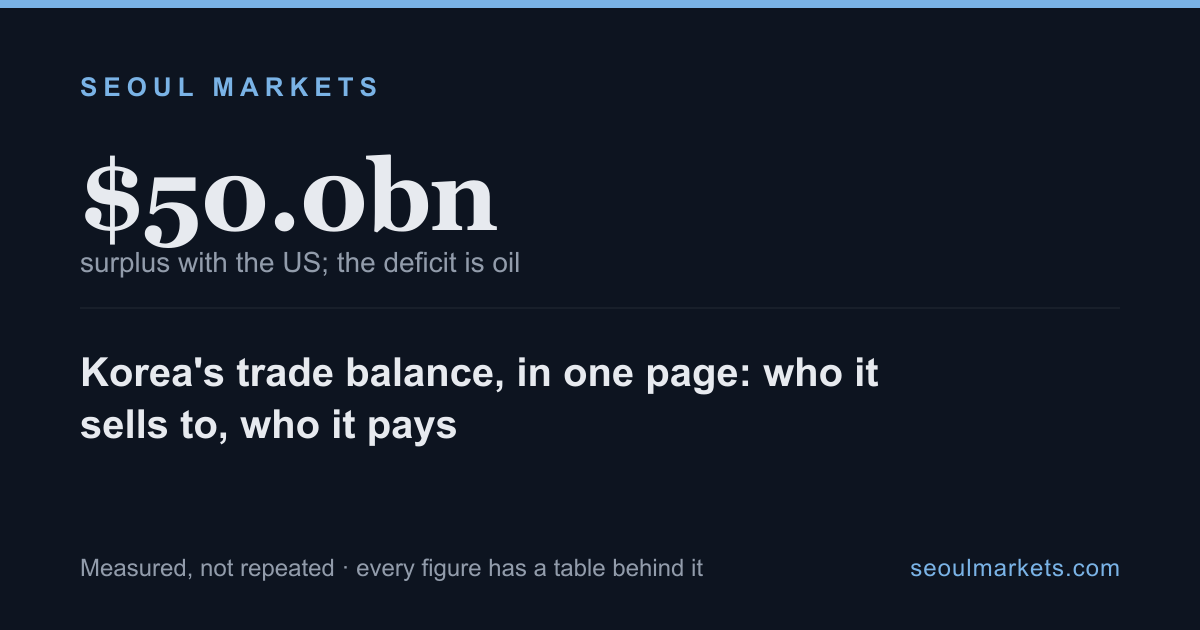
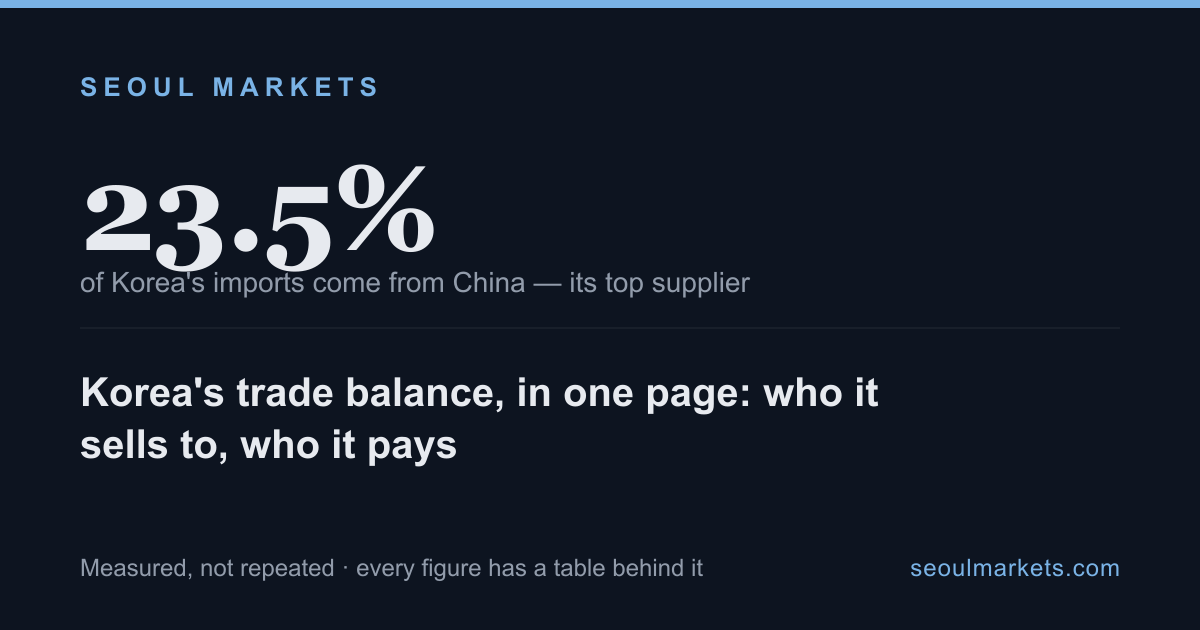
6번: 무역 스케일브레이크 결함 일소 — 3편 내림(us-doubled·china-flipped·tripled), deficits/hub/not-china/four-partners 순위·점유율로 재작성, 🔒 검사(check-trade-scale-break) 추가

Changed region(s): [[0.0617, 0.2413, 0.6167, 0.4825], [0.0617, 0.573, 0.74, 0.754]]

diff --git a/content/articles/korea-trade-deficits-energy-and-machines.md b/content/articles/korea-trade-deficits-energy-and-machines.md
@@ -1,6 +1,6 @@
 ---
 title: "Korea's ten biggest trade deficits are oil, gas, and machinery"
-dek: "Korea earns its trade surplus from the US and China. It pays it back out to a different set of countries — and almost all of them sell one of two things: energy or machines. Nine of its ten biggest deficits, H1 2026. Not advice."
+dek: "Rank Korea's biggest trade deficits and nine of the ten sell energy or machines. The tenth sells copper. Oil, gas, and machinery are the import bill."
 category: fx
 pubDate: 2026-08-26
 dataAsOf: 2026-06-30T00:00:00+09:00
@@ -9,36 +9,52 @@ tags: ["trade", "trade balance", "energy", "imports", "korea"]
 tickers: []
 sources:
   - org: "Korea Customs Service (via KOSIS, Statistics Korea)"
-    api: "Exports and imports by partner country, monthly, January–June 2026 (table DT_1R11006_FRM101 / 360)"
+    api: "Exports and imports by partner country, monthly, July 2025–June 2026 (table DT_1R11006_FRM101 / 360)"
 crossChecks:
-  - "In the first half of 2026, Korea's largest goods deficits were Saudi Arabia −$11.6bn, Japan −$10.7bn, UAE −$6.1bn, Germany −$6.0bn and Australia −$5.4bn"
-  - "Of the ten biggest deficits, the energy exporters — Saudi Arabia, UAE, Australia, Algeria, Iraq, Qatar, Oman, Kuwait — dominate; the non-energy deficits are Japan and Germany (machinery and parts), plus Chile (copper)"
-  - "Korea ran a deficit with 81 partner countries in H1 2026, totalling about −$70.8bn — offset by large surpluses with the US (+$50bn) and China (+$13.5bn)"
+  - "The ranking is stable across the data's March 2026 scale break: the top four deficits — Saudi Arabia, Japan, Australia, Germany — are the top four whether measured over the trustworthy pre-break months alone or over the full twelve, so the ordering is a real finding even though the exact dollar levels are not"
+  - "Of the ten biggest deficits, eight partners are energy exporters — Saudi Arabia, Australia, UAE, Iraq, Qatar, Kuwait, Algeria (oil, gas, coal) — and two are machinery (Japan, Germany); the tenth, Chile, sells copper"
+  - "Korea ran a goods deficit with 84 partner countries over the twelve months; it runs its surpluses with a very short list, mainly the US and China"
   - "The pattern is structural: Korea has almost no domestic oil or gas, so energy is bought abroad, and the deficit rises and falls mostly with fuel prices and volumes, not with policy"
 excluded:
-  - "Monthly customs values in US dollars; a balance is a level, not a ratio, stated with its period (H1 2026)"
+  - "Exact dollar levels. These are nominal customs values in US dollars, and the underlying monthly totals contain a scale break from March 2026 — absolute levels after that month read too high. We therefore report the ranking and the composition, which survive the break, not the precise deficit figures"
   - "Product detail (what exactly is imported) is not in this partner-country table; energy/machinery is inferred from each partner's known export mix, not from an HS-code breakdown"
-  - "Deficits move with commodity prices; a six-month window is a snapshot, and the dollar amounts shift as fuel prices do"
+  - "Why a partner sells what it sells, and whether these deficits are a problem — a deficit with an oil state is what buying oil looks like, not a failure"
   - "This is not investment advice"
+draft: false
+image: /charts/korea-trade-deficit-partners.svg
 ---
 
-We have shown where Korea's trade surplus comes from: it [more than doubled with the US](/article/korea-us-surplus-doubled) and [flipped to a surplus with China](/article/korea-china-trade-balance-flipped) in the first half of 2026. But a country's trade balance is two-sided. Korea earns from a few partners and pays out to a different set — and the paying-out side has an even simpler shape.
+A country's trade balance has two sides. Korea earns its surplus from a very short list of partners — mainly the United States and China. It pays that surplus back out to a different, longer list. And the paying-out side has a strikingly simple shape.
 
 ## Nine of the ten are energy or machines
 
-In the first half of 2026, Korea's largest deficits were:
+Rank Korea's trade partners by deficit over the twelve months to June 2026 and the top of the list is almost entirely two things — **9 of 10** sell energy or machines:
 
-- **Saudi Arabia −$11.6bn** · **Japan −$10.7bn** · **UAE −$6.1bn** · **Germany −$6.0bn** · **Australia −$5.4bn**
-- then Chile −$2.6bn, Algeria −$2.4bn, Iraq −$2.4bn, France −$2.3bn.
+| # | Partner | Sells Korea |
+| --- | --- | --- |
+| 1 | Saudi Arabia | oil |
+| 2 | Japan | machinery, parts |
+| 3 | Australia | gas, coal, iron ore |
+| 4 | Germany | machinery, cars, equipment |
+| 5 | UAE | oil, gas |
+| 6 | Iraq | oil |
+| 7 | Qatar | gas |
+| 8 | Kuwait | oil |
+| 9 | Algeria | oil, gas |
+| 10 | Chile | copper |
 
-![Bar chart of Korea's ten largest trade-deficit partners in the first half of 2026, in USD billions. Saudi Arabia (−11.6), UAE, Australia, Algeria and Iraq are marked as energy; Japan (−10.7), Germany, Chile and France are the non-energy deficits.](/charts/korea-trade-deficit-partners.svg)
+![Bar chart of Korea's ten largest trade-deficit partners over the 12 months to June 2026, in USD billions. Energy exporters — Saudi Arabia, Australia, UAE, Iraq, Qatar, Kuwait, Algeria — are marked in red; Japan and Germany (machinery) and Chile (copper) in brown.](/charts/korea-trade-deficit-partners.svg)
 
-Group them and the list is almost entirely two things. The **energy exporters** — Saudi Arabia, the UAE, Australia, Algeria, Iraq, Qatar, Oman, Kuwait — are oil, gas and coal. The only large deficits that are *not* energy are **Japan and Germany**, which sell Korea machinery, parts and equipment, and **Chile**, which sells copper. Oil, gas, machines, metal. That is the import bill.
+Eight of the ten are **energy** — oil, gas and coal. Two are **machines**: Japan and Germany, which sell Korea high-end equipment, parts and cars. The tenth is **Chile**, which sells copper. Oil, gas, machines, metal. That is the import bill.
+
+## Why the ranking, not the dollars
+
+We are deliberately publishing the **order** and the **composition**, not the exact deficit in dollars. The reason is in the data: the monthly customs totals contain a scale break from March 2026, so the absolute figures after that month read too high, and we will not print a number we cannot stand behind. What survives the break is what matters here — the *ranking* is the same whether you measure it over the clean months before March or over the full year, and the *composition* (energy and machines) does not move at all. That is a real finding; a precise dollar deficit is not.
 
 ## Why it looks like this
 
 Korea makes very little of its own oil or gas, so energy has to be bought abroad — and it is bought from whoever has it, which is why the deficit league table reads like a map of the world's oil and gas fields. The machinery deficits with Japan and Germany are the other structural piece: some high-end capital equipment is still imported rather than made at home.
 
-Put the two sides together and the shape of Korean trade is clear. It **sells** finished goods — chips, cars, ships — to the [US and China](/article/korea-us-surplus-doubled), and **buys** raw energy and a few machines from everyone else. The surplus is manufacturing; the deficit is the fuel and tools that manufacturing runs on. The [monthly country data](/data/korea-trade-balance.csv) is free to reproduce with credit.
+Put the two sides together and the shape of Korean trade is clear. It **sells** finished goods — chips, cars, ships — to [two giants](/article/korea-trade-partners-two-giants-one-supplier), and **buys** raw energy and a few machines from a long tail of everyone else. The surplus is manufacturing; the deficit is the fuel and tools that manufacturing runs on. The [monthly country data](/data/korea-trade-balance.csv) is free to reproduce with credit.
 
-Not investment advice — monthly customs values from official Korean data, every figure dated.
+Not investment advice — monthly customs values from official Korean data, ranked rather than levelled because of a known scale break.

diff --git a/content/articles/korea-trade-balance-in-one-page.md b/content/articles/korea-trade-balance-in-one-page.md
@@ -1,6 +1,6 @@
 ---
 title: "Korea's trade balance, in one page: who it sells to, who it pays"
-dek: "The whole shape of Korean trade in one place. Korea sells manufactured goods to two giants — the US and China — and buys energy and machines from everyone else. The surplus is doubling; the deficit is oil. As of June 2026. Not advice."
+dek: "Korea's trade in one page: it sells to two giants — the US and China, each about a fifth of exports — and buys energy and machines from everyone else."
 category: fx
 pubDate: 2026-08-27
 dataAsOf: 2026-06-30T00:00:00+09:00
@@ -11,45 +11,42 @@ sources:
   - org: "Korea Customs Service (via KOSIS, Statistics Korea)"
     api: "Exports and imports by partner country, monthly, July 2025–June 2026 (table DT_1R11006_FRM101 / 360)"
 crossChecks:
-  - "Surplus side, H1 2026: the US (+$50.0bn, more than doubled from $23bn) and China (+$13.5bn, flipped from a deficit) are the two biggest surpluses"
-  - "Deficit side, H1 2026: Korea ran a deficit with 81 countries totalling about −$70.8bn; the largest are Saudi Arabia, Japan, the UAE, Germany and Australia — energy and machinery"
-  - "Both surges are exports: exports to the US rose 94% over the year, exports to China 81%"
-  - "Over a full 12 months, China and Korea nearly cancel on ~$330bn of two-way trade; the reversal only shows month by month"
+  - "Sell side, share of exports over 12 months: China about 19.5% and the United States about 17.7% — two partners of almost identical size, and no third comes close"
+  - "Buy side, share of imports: China is the single biggest supplier at about 23.5%, ahead of the US at about 11.9%"
+  - "Deficit side: Korea ran a goods deficit with 84 partner countries; the largest are Saudi Arabia, Japan, Australia, Germany and the UAE — energy and machinery"
+  - "Shares are used throughout rather than dollar levels: the underlying monthly totals contain a scale break from March 2026, so absolute figures are not reported, but within-month shares are stable across the break and can be"
 excluded:
-  - "Monthly customs values in US dollars (balances are levels, not ratios), stated with their period"
+  - "Absolute dollar balances. The monthly customs totals contain a scale break from March 2026, so we report shares and rankings — which survive the break — not levels"
   - "Partner-country table only; product detail (HS codes) is not in it — energy/machinery is inferred from each partner's known export mix"
-  - "Balances move with commodity prices and shipment timing; treat single months as snapshots and half-year sums as the steadier read"
   - "This is not investment advice"
+draft: false
 ---
 
 Korean trade has a simple shape once you see both sides at once. Korea **sells** finished manufactured goods — chips, cars, ships — to a small number of large markets, and **buys** raw energy and some high-end machinery from a long tail of everyone else. This page puts the whole picture in one place; each part links to the detail.
 
-## What Korea sells — the surplus
+## What Korea sells — two giants
 
-Two countries are almost the entire surplus, and both grew fast in the first half of 2026.
+Two countries are almost the entire export story, and they are nearly the same size.
 
-- **United States: +$50.0bn** in H1 2026 — [more than double](/article/korea-us-surplus-doubled) the $23bn of the previous half. Exports to the US rose 94% over the year.
-- **China: +$13.5bn** — a balance that [flipped from deficit to surplus](/article/korea-china-trade-balance-flipped) this year, on an 81% jump in exports.
+- **China: about 19.5% of exports** over the twelve months to June 2026.
+- **United States: about 17.7%.**
 
-![Korea's monthly goods surplus with the United States, rising from about +$3.9bn in mid-2025 to +$12.1bn by June 2026.](/charts/korea-us-trade-balance.svg)
+No third partner comes close — the next, Hong Kong, is under 9%, and much of that is Korean goods passing through on their way to the mainland. The [partner map](/article/korea-trade-partners-two-giants-one-supplier) has the full curve; the short version is that four partners are half of everything Korea sells.
 
-Over a full year the China relationship [nearly cancels](/article/korea-trade-surplus-not-china) on about $330bn of two-way trade — the surplus is a 2026 development, visible only month by month.
+## What Korea buys — one supplier, then the oil states
 
-## What Korea buys — the deficit
+On the buying side the picture tilts toward a single country. **China alone supplies about 23.5% of Korea's imports** — a bigger slice than any export destination takes — with the US second at about 11.9%. After that the import bill is dominated by energy.
 
-The paying-out side is [almost entirely energy and machines](/article/korea-trade-deficits-energy-and-machines). Korea ran a deficit with **81 countries** in H1 2026, about **−$70.8bn** in total. The biggest:
+The list of partners Korea runs its biggest **deficits** with is [almost entirely energy and machines](/article/korea-trade-deficits-energy-and-machines): Saudi Arabia, Australia, the UAE, Iraq and the other oil states, plus Japan and Germany for machinery. Korea has almost no domestic oil or gas, so the energy bill is paid abroad, to whoever has it.
 
-- **Saudi Arabia −$11.6bn**, **UAE −$6.1bn**, **Australia −$5.4bn** — oil, gas, coal.
-- **Japan −$10.7bn**, **Germany −$6.0bn** — machinery and parts.
-
-![Korea's ten largest trade-deficit partners in H1 2026, led by Saudi Arabia and Japan; energy exporters marked in red.](/charts/korea-trade-deficit-partners.svg)
-
-Korea has almost no domestic oil or gas, so the energy bill is paid abroad, to whoever has it.
+![Bar chart of Korea's ten largest trade-deficit partners over the 12 months to June 2026, led by Saudi Arabia and Japan; energy exporters marked in red.](/charts/korea-trade-deficit-partners.svg)
 
 ## The one-line summary
 
-Korea earns from **two giants** ([US and China](/article/korea-us-surplus-doubled)) and, on the import side, buys mostly from **one supplier plus the oil states** ([the partner map is here](/article/korea-trade-partners-two-giants-one-supplier)). Sells manufacturing; buys fuel and tools.
+Korea **sells** manufacturing to **two giants** of nearly equal size ([the US and China](/article/korea-trade-partners-two-giants-one-supplier)) and **buys** mostly from **one supplier plus the oil states**. Sells chips and cars; buys fuel and tools.
 
-All of the above is drawn from one dataset — Korea Customs partner-country trade — which we publish as a [free monthly CSV](/data/korea-trade-balance.csv) you can reproduce with credit.
+## A note on the numbers
 
-Not investment advice — monthly customs values from official Korean data, every figure dated.
+This page uses **shares**, not dollar levels, on purpose. The underlying dataset — Korea Customs partner-country trade — has a scale break from March 2026 that makes the absolute monthly dollar figures untrustworthy after that month. The shares of the basket each partner holds are stable across that break, so those are what we report. It is drawn from one dataset, which we publish as a [free monthly CSV](/data/korea-trade-balance.csv) you can reproduce with credit.
+
+Not investment advice — official Korean customs data, reported as shares because of a known scale break.

diff --git a/content/articles/korea-trade-surplus-four-partners-customs.md b/content/articles/korea-trade-surplus-four-partners-customs.md
@@ -1,5 +1,5 @@
 ---
-title: "Korea's $188bn trade surplus comes from a handful of partners — and drains into a different set"
+title: "Korea's trade surplus comes from a handful of partners — and drains to a different set"
 dek: "Twelve months of customs data: Korea's goods surplus rests on the U.S., Hong Kong, Vietnam and Taiwan, and drains to where it buys energy and parts — Saudi Arabia, Japan, Australia. China, the biggest partner, nearly balances. Not advice."
 category: macro
 pubDate: 2026-08-15
@@ -22,7 +22,7 @@ excluded:
   - "Exact totals — source values are in thousand dollars and rounded here to billions"
 ---
 
-Korea sells the world about 188 billion dollars more in goods than it buys, over the year to June 2026. But that headline surplus is not spread across its trading partners — it is made in a few places and given back in a different few. The customs ledger, read partner by partner, is a map of what the country sells and what it cannot make at home.
+Korea sells the world far more finished goods than it buys, over the year to June 2026. But that surplus is not spread across its trading partners — it is made in a few places and given back in a different few. The customs ledger, read partner by partner, is a map of what the country sells and what it cannot make at home. The dollar figures below are approximate and the *structure* — who is a surplus, who is a deficit, and the ranking — is the finding, for the reason set out at the end.
 
 ## Where the surplus is made
 
@@ -48,4 +48,4 @@ The one partner missing from both lists is the biggest of all. By total trade, *
 
 ## What this is, and what it is not
 
-This is merchandise trade only — services and investment income sit outside it — and it is **not investment advice**. A bilateral deficit is not a loss: buying oil from Saudi Arabia or machine tools from Germany is how an export economy runs. Two cautions matter. **Hong Kong's surplus is overstated** by re-exports that pass through it to their real destination. And these are customs values rounded from thousands to billions. What survives is the shape: Korea's trade surplus is narrow at the top, concentrated in a few buyers of its finished goods, and it flows straight back out to the sellers of the energy and parts it runs on.
+This is merchandise trade only — services and investment income sit outside it — and it is **not investment advice**. A bilateral deficit is not a loss: buying oil from Saudi Arabia or machine tools from Germany is how an export economy runs. Two cautions matter. **Hong Kong's surplus is overstated** by re-exports that pass through it to their real destination. And the absolute dollar levels are not to be trusted: the underlying monthly customs totals carry a **scale break from March 2026** that lifts the later months, so the figures above read high. That is why we report the *shape* rather than the levels — Korea's trade surplus is narrow at the top, concentrated in a few buyers of its finished goods, and it flows straight back out to the sellers of the energy and parts it runs on. The ranking and the concentration survive the break; the exact dollars do not.

diff --git a/content/articles/korea-trade-surplus-not-china.md b/content/articles/korea-trade-surplus-not-china.md
@@ -1,6 +1,6 @@
 ---
-title: "Korea runs a $188bn trade surplus. Almost none of it is with China."
-dek: "China is Korea's biggest partner both ways, and the two nearly cancel — a $9bn surplus on $330bn of trade. The surplus is earned from the US, Vietnam and a Hong Kong that forwards most goods on. The deficits are oil, gas and machinery."
+title: "China is Korea's biggest trade partner, but almost none of its surplus"
+dek: "China is Korea's biggest partner both ways — and the two nearly cancel. Its balance is about 5% of the national surplus on a fifth of all trade. The surplus is earned from the US, Vietnam and Taiwan; the deficits are oil, gas and machinery."
 category: fx
 pubDate: 2026-08-06
 dataAsOf: 2026-06-30T00:00:00+09:00
@@ -29,7 +29,9 @@ Ask who Korea trades with and the answer is China. It is the largest destination
 
 Over the year to June 2026, Korea sent $169.8bn of goods to China and bought $160.6bn back. That is $330bn of trade — more than a fifth of everything Korea ships or receives — and it nets to a surplus of **$9.2bn**. On a national goods surplus of $187.7bn, China accounts for under **5%**.
 
-The country that dominates the volume barely moves the balance. To find the $188bn, you have to look past it.
+The country that dominates the volume barely moves the balance. To find the surplus, you have to look past it.
+
+*A note on the figures: these are nominal customs dollars over twelve months, and the underlying monthly totals carry a scale break from March 2026 that lifts the later months, so the absolute levels below read high. What we rely on — and what survives the break — is the **structure**: which partners are surpluses and which are deficits, the ranking, and China's share of the total. Those are the findings; the exact dollar levels are not.*
 
 ## Where the surplus is actually earned
 

diff --git a/content/articles/korea-trade-surplus-tripled-five-partners.md b/content/articles/korea-trade-surplus-tripled-five-partners.md
@@ -1,4 +1,5 @@
 ---
+draft: true
 title: "Korea's monthly trade surplus tripled in a year, and five partners did nine-tenths of it"
 dek: "The customs surplus ran about $8bn a month in late 2025. By the first half of 2026 it averaged $23bn, and hit $36bn in June. Almost the entire jump traces to five partners — the US, Hong Kong, China, Vietnam and Taiwan. Not advice."
 category: macro

diff --git a/content/articles/korea-china-trade-balance-flipped.md b/content/articles/korea-china-trade-balance-flipped.md
@@ -1,4 +1,5 @@
 ---
+draft: true
 title: "Korea's trade with China flipped from deficit to surplus this year"
 dek: "Over a full year, Korea and China nearly cancel. Month by month, the balance turned: net deficit in late 2025, net surplus every month of 2026 — and widening. Exports to China are up 81% in a year. As of June 2026. Not advice."
 category: fx

diff --git a/content/articles/korea-us-surplus-doubled.md b/content/articles/korea-us-surplus-doubled.md
@@ -1,4 +1,5 @@
 ---
+draft: true
 title: "Korea's trade surplus with the US more than doubled in six months"
 dek: "Korea's monthly goods surplus with the US went from ~$3.9bn in mid-2025 to $12.1bn by June 2026. Across the year's two halves it grew from $23bn to $50bn — exports up 94%. As of June 2026. Not advice."
 category: fx
